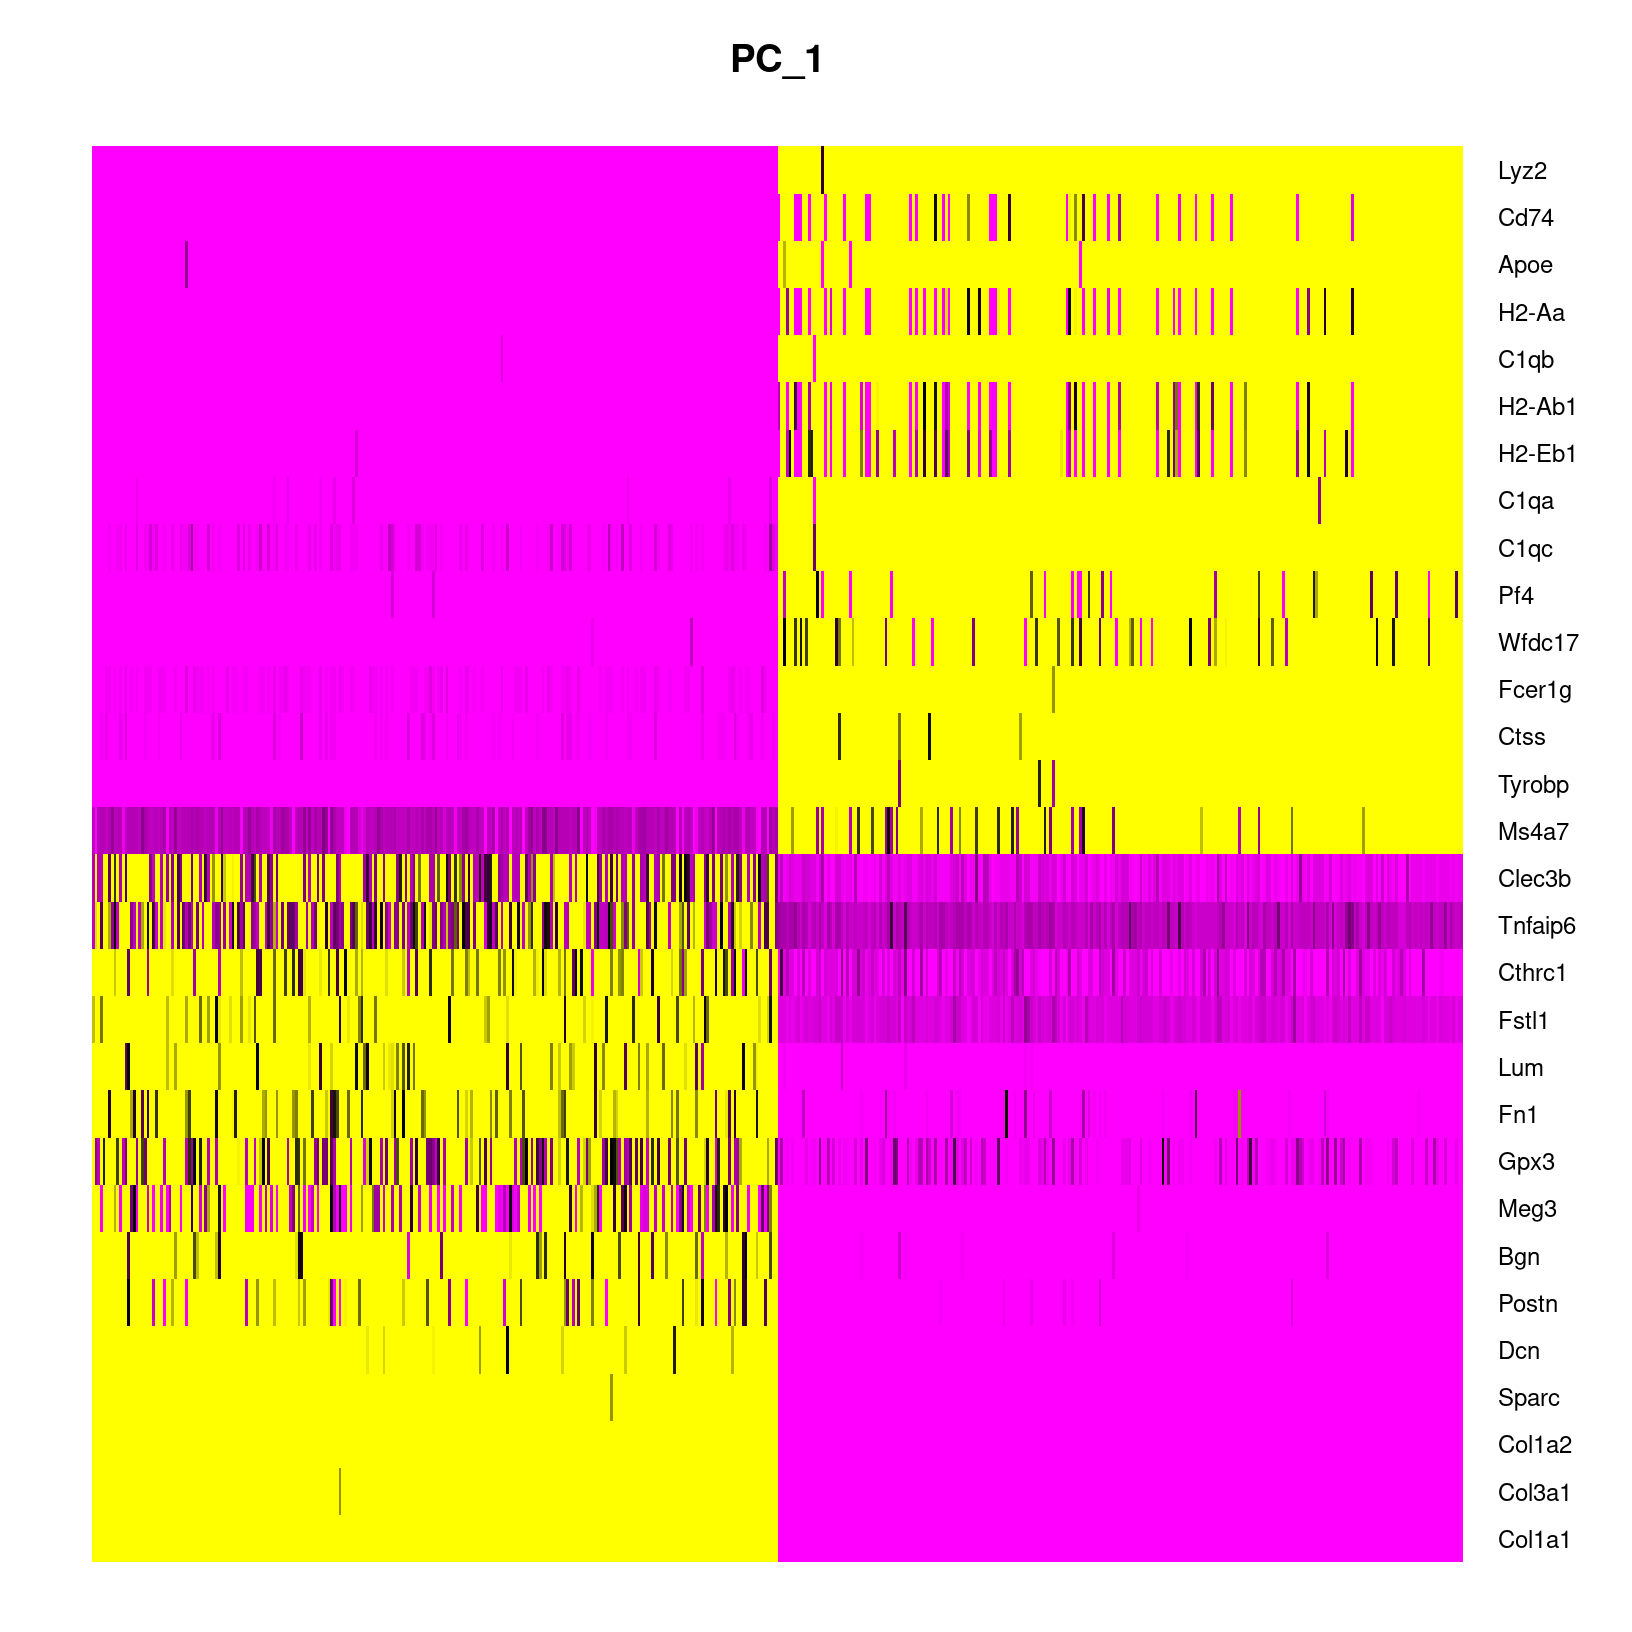
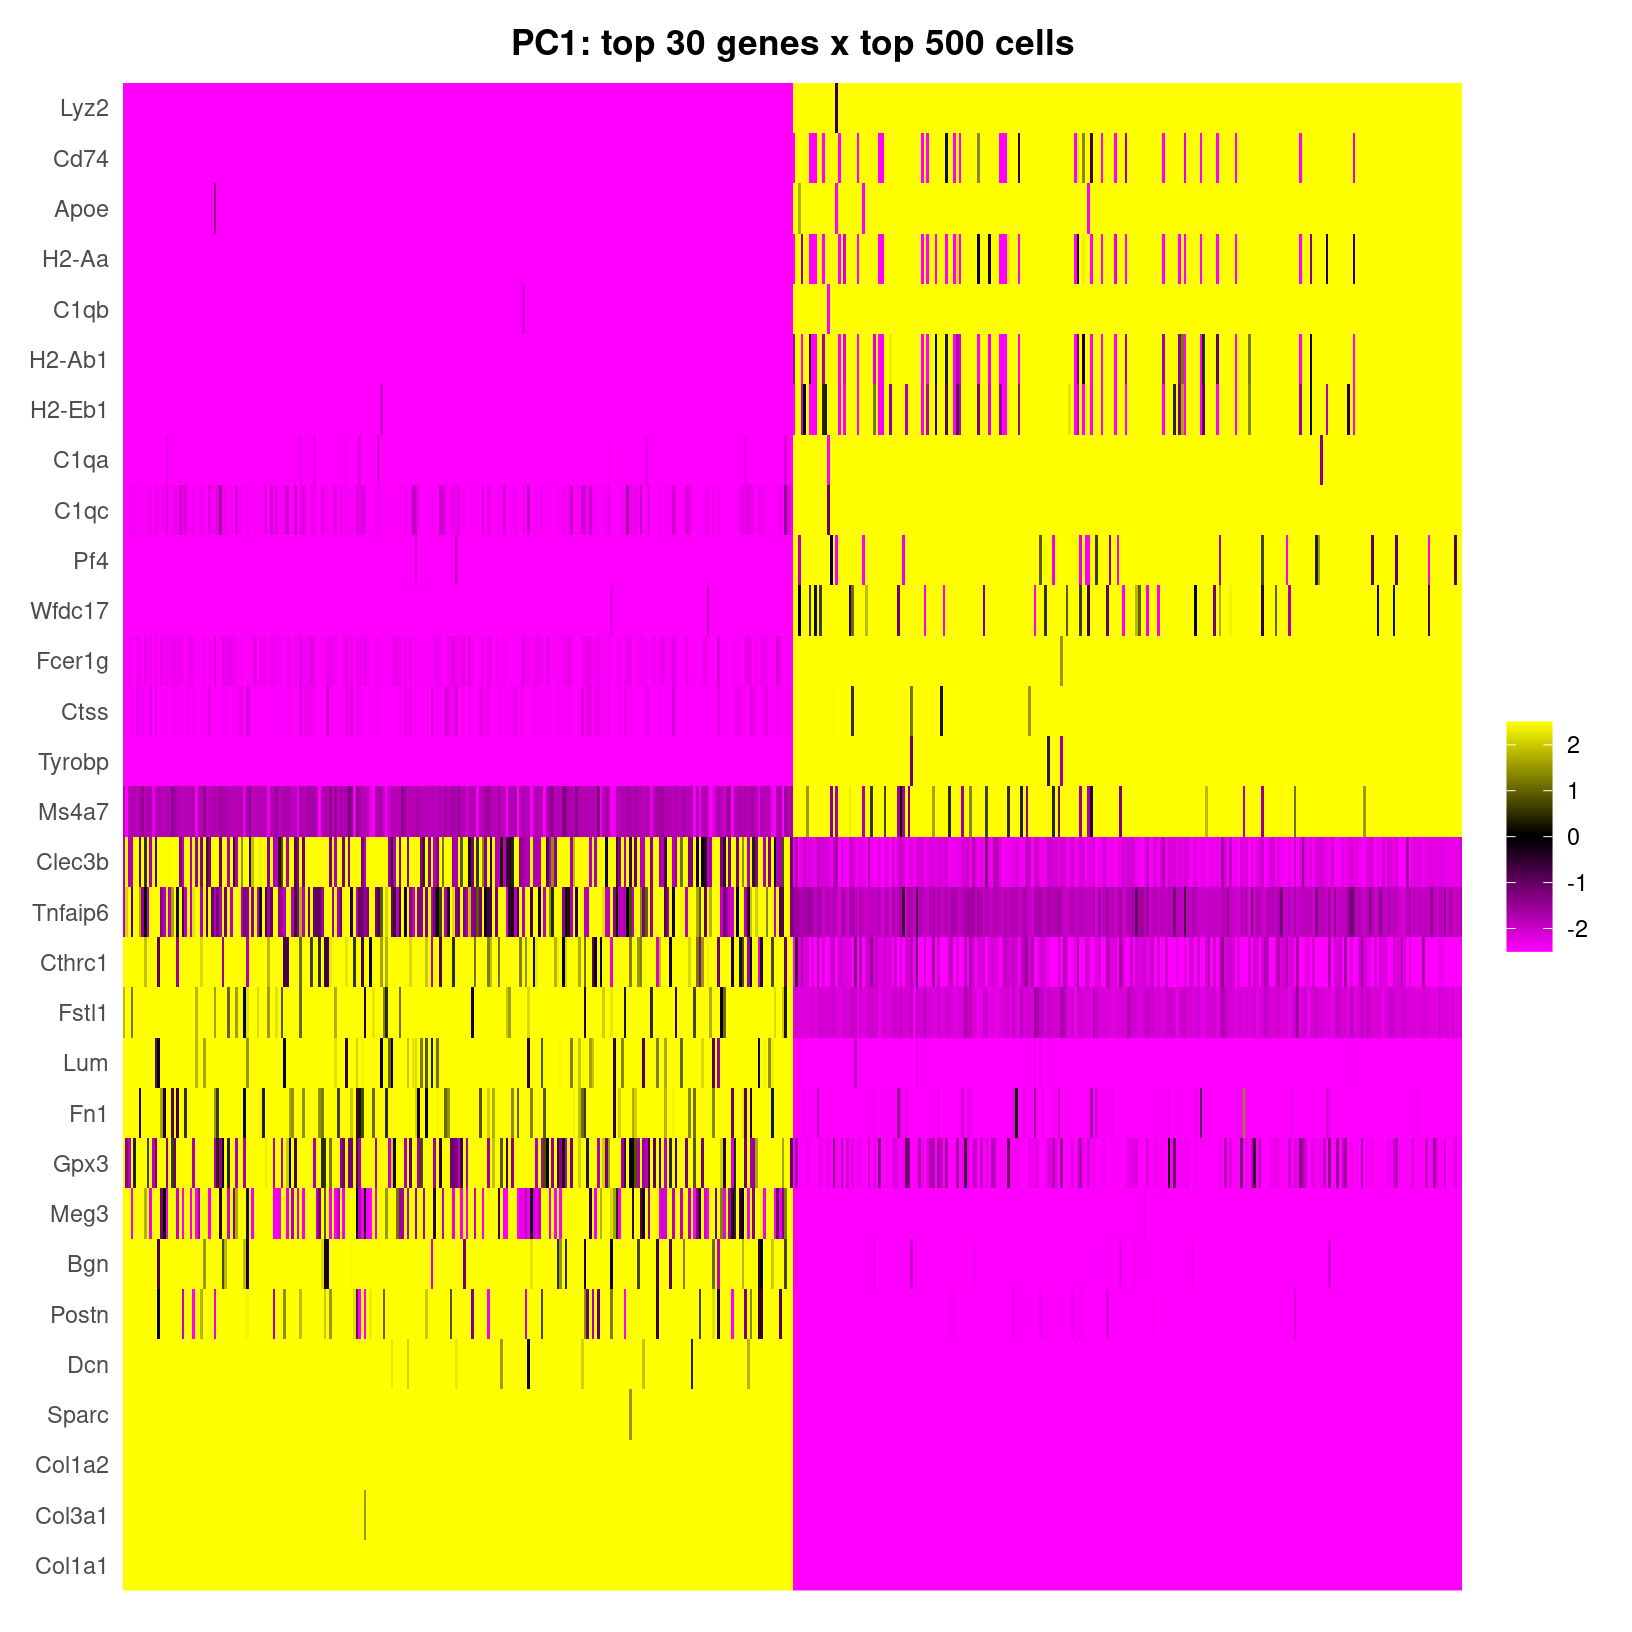
Knit PCA changes

diff --git a/html/04-PCAandIntegration.html b/html/04-PCAandIntegration.html
@@ -686,19 +686,11 @@ included in the figure and that 500 cells are randomly subsetted for the
 plot. <em>Note - you may need to increase your plot window size to
 resolve errors regarding figure margins.</em></p>
 <pre class="r"><code># -------------------------------------------------------------------------
-# Build heatmaps of PCAs
-# Plot cell by gene heatmaps for first several PCs
-
 # look at first PC alone first
-DimHeatmap(geo_so, dims=1, cells=500, balanced=TRUE, reduction = &#39;unintegrated.sct.pca&#39;) 
-
-# first 18 PCs
-DimHeatmap(geo_so, dims=1:18, cells=500, balanced=TRUE, reduction = &#39;unintegrated.sct.pca&#39;)
-
-# note - need to use png() to write to file because this isn&#39;t a ggplot
-png(filename = &#39;results/figures/qc_pca_heatmap.png&#39;, width = 12, height = 40, units = &#39;in&#39;, res = 300)
-  DimHeatmap(geo_so, dims=1:18, cells=500, balanced=TRUE, reduction = &#39;unintegrated.sct.pca&#39;)
-dev.off()</code></pre>
+heatmap_1 &lt;- DimHeatmap(geo_so, dims=1, cells=500, balanced=TRUE, fast = FALSE, reduction = &#39;unintegrated.sct.pca&#39;) # works but doesn&#39;t include PC numbers
+heatmap_1 + 
+  labs(title=&quot;PC1: top 30 genes x top 500 cells&quot;) + 
+  theme(plot.title = element_text(hjust = 0.5, face = &quot;bold&quot;)) </code></pre>
 <div class="figure" style="text-align: center">
 <img src="images/curriculum/04-PCAandIntegration/04-pca_heatmap_one-1.png" alt="DimHeatmap for PC1 alone" width="50%" />
 <p class="caption">
@@ -709,18 +701,51 @@ DimHeatmap for PC1 alone
 gene names and PC scores plotted with positive values in yellow,
 negative values in purple, and zero in black <a
 href="https://davetang.org/muse/2017/08/01/getting-started-seurat/">by
-default</a>.</p>
+default</a>, with each column representing a cell. Note that by using
+<code>fast=FALSE</code> our output is a <code>ggplot</code> object,
+which allows for customization like adding a more informative, formatted
+title.</p>
+<p>What about the other PCs that have been calculated for these data? We
+can look at additional dimensions using the same
+<code>DimHeatmap()</code> function. However, we’ll use the default
+plotting where <code>fast=TRUE</code> so base plotting will be used
+instead of <code>ggplot</code>.</p>
+<pre class="r"><code># Plot cell by gene heatmaps for larger set of dimensions -----------------------
+# look at first 18 PCs
+DimHeatmap(geo_so, dims=1:18, cells=500, balanced=TRUE, combine = FALSE, reduction = &#39;unintegrated.sct.pca&#39;)</code></pre>
 <div class="figure" style="text-align: center">
 <img src="images/curriculum/04-PCAandIntegration/04-pca_heatmap_18-1.png" alt="DimHeatmap for PC1-18" width="816" />
 <p class="caption">
 DimHeatmap for PC1-18
 </p>
 </div>
+<pre class="r"><code># note - need to use png() to write to file because this isn&#39;t a ggplot
+png(filename = &#39;results/figures/qc_pca_heatmap.png&#39;, width = 12, height = 40, units = &#39;in&#39;, res = 300)
+  DimHeatmap(geo_so, dims=1:18, cells=500, balanced=TRUE, reduction = &#39;unintegrated.sct.pca&#39;)
+dev.off()</code></pre>
+<pre><code>png 
+  2 </code></pre>
 <p>As we scroll down in this plot, we see less and less structure in our
-plots and more zero scores (in black) indicating that not only is less
-variation is being represented by larger PCs overall but also that those
-PCs are less likely to correspond to variation of interest,
-e.g. corresponding to cell types/subtypes.</p>
+plots and more zero scores (in black) indicating that less variation is
+being represented by larger PCs overall. However, these patterns can be
+hard to see so we can also select a few PCs to take a closer look at,
+again using the default <code>fast=TRUE</code> option and getting a base
+plot.</p>
+<pre class="r"><code># Plot cell by gene heatmaps for a subset of dimensions -----------------------
+# zoom in on a few selected dims (CG suggestion)
+DimHeatmap(geo_so, dims=c(1,5,10,20, 30,50), cells=500, balanced=TRUE, reduction = &#39;unintegrated.sct.pca&#39;, nfeatures=20)</code></pre>
+<div class="figure" style="text-align: center">
+<img src="images/curriculum/04-PCAandIntegration/04-pca_heatmap_zoom-1.png" alt="DimHeatmap for select PCs" width="75%" />
+<p class="caption">
+DimHeatmap for select PCs
+</p>
+</div>
+<p>When we look at the selected PCs, we can see that PC10 has quite a
+bit of blocky structure that is separating about half the cells for a
+subset of genes. For the later PCs, we are seeing less ‘blocks’
+suggesting that the variation explained by these later components might
+not correspond to the larger cell-type differences that we want to
+capture for the purposes of clustering.</p>
 <details>
 <summary>
 <em>What genes are contributing the most to each PC?</em>

diff --git a/html/08-DifferentialExpression.html b/html/08-DifferentialExpression.html
@@ -954,8 +954,8 @@ pathway enrichment, and GSEA with mSigDB.</p>
 rm(list=names(which(unlist(eapply(.GlobalEnv, is.ggplot))))); 
 gc()</code></pre>
 <pre><code>            used   (Mb) gc trigger   (Mb)  max used   (Mb)
-Ncells   8943047  477.7   16559808  884.4  12037851  642.9
-Vcells 345981830 2639.7  565161356 4311.9 470886834 3592.6</code></pre>
+Ncells   8940799  477.5   16558614  884.4  12034430  642.8
+Vcells 345977060 2639.6  565152749 4311.8 470881952 3592.6</code></pre>
 <p>We’ll save the scCATCH object. The Seurat object has not been changed
 in this module.</p>
 <pre class="r"><code># -------------------------------------------------------------------------

diff --git a/html/07-CellTypeAnnos.html b/html/07-CellTypeAnnos.html
@@ -1236,8 +1236,8 @@ catch_umap_condition_plot</code></pre>
 rm(list=names(which(unlist(eapply(.GlobalEnv, is.ggplot))))); 
 gc()</code></pre>
 <pre><code>            used   (Mb) gc trigger   (Mb)  max used   (Mb)
-Ncells   6828922  364.8   12036790  642.9  12036790  642.9
-Vcells 336316985 2565.9  924386024 7052.6 924384578 7052.5</code></pre>
+Ncells   6827681  364.7   12034307  642.8  12034307  642.8
+Vcells 336314484 2565.9  924373640 7052.5 924286471 7051.8</code></pre>
 <p>We’ll save the scCATCH object. The Seurat object has not been changed
 in this module.</p>
 <pre class="r"><code># -------------------------------------------------------------------------

diff --git a/html/05-ProjectionAndClustering.html b/html/05-ProjectionAndClustering.html
@@ -2325,8 +2325,8 @@ plots = c(&quot;pre_integration_umap_plot_day&quot;,
 rm(list=Filter(exists, plots))
 gc()</code></pre>
 <pre><code>            used   (Mb) gc trigger   (Mb)  max used   (Mb)
-Ncells   6632296  354.3   11601707  619.6  11601707  619.6
-Vcells 382803119 2920.6  641816828 4896.7 433121019 3304.5</code></pre>
+Ncells   6634891  354.4   12039181  643.0  12039181  643.0
+Vcells 382803122 2920.6  641817227 4896.7 433121027 3304.5</code></pre>
 </div>
 </div>
 <div id="save-our-progress" class="section level1">

diff --git a/html/06-MarkerVisualization.html b/html/06-MarkerVisualization.html
@@ -781,8 +781,8 @@ plots = c(&quot;top_5_sct_dot_plot&quot;,
 rm(list=Filter(exists, plots))
 gc()</code></pre>
 <pre><code>            used   (Mb) gc trigger   (Mb)  max used   (Mb)
-Ncells   6688001  357.2   12036790  642.9  12036790  642.9
-Vcells 334765795 2554.1  924386024 7052.6 924384578 7052.5</code></pre>
+Ncells   6685749  357.1   12034307  642.8  12034307  642.8
+Vcells 334760990 2554.1  924373640 7052.5 924286471 7051.8</code></pre>
 </div>
 </div>
 <div id="save-our-progress" class="section level1">

diff --git a/html/01-GettingStarted.html b/html/01-GettingStarted.html
@@ -753,8 +753,8 @@ Queued Operations:
 rm(geo_mat)
 gc()</code></pre>
 <pre><code>           used (Mb) gc trigger   (Mb)  max used   (Mb)
-Ncells  6234232  333   11481450  613.2   8756749  467.7
-Vcells 11526699   88  564159871 4304.2 672804659 5133.1</code></pre>
+Ncells  6234053  333   11480941  613.2   8755045  467.6
+Vcells 11526206   88  564158887 4304.2 672804166 5133.1</code></pre>
 </div>
 <div id="read-bpcells" class="section level2">
 <h2>Read BPCells</h2>

diff --git a/html/09-IndependentExercise.html b/html/09-IndependentExercise.html
@@ -11,7 +11,7 @@
 
 <meta name="author" content="UM Bioinformatics Core Workshop Team" />
 
-<meta name="date" content="2025-04-11" />
+<meta name="date" content="2025-04-14" />
 
 <title>Independent Exercise</title>
 
@@ -414,7 +414,7 @@ div.tocify {
 
 <h1 class="title toc-ignore">Independent Exercise</h1>
 <h4 class="author">UM Bioinformatics Core Workshop Team</h4>
-<h4 class="date">2025-04-11</h4>
+<h4 class="date">2025-04-14</h4>
 
 </div>
 

diff --git a/html/00-ResourcesAndExtendedContent.html b/html/00-ResourcesAndExtendedContent.html
@@ -11,7 +11,7 @@
 
 <meta name="author" content="UM Bioinformatics Core Workshop Team" />
 
-<meta name="date" content="2025-04-09" />
+<meta name="date" content="2025-04-14" />
 
 <title>Resource Links</title>
 
@@ -410,7 +410,7 @@ div.tocify {
 
 <h1 class="title toc-ignore">Resource Links</h1>
 <h4 class="author">UM Bioinformatics Core Workshop Team</h4>
-<h4 class="date">2025-04-09</h4>
+<h4 class="date">2025-04-14</h4>
 
 </div>
 
